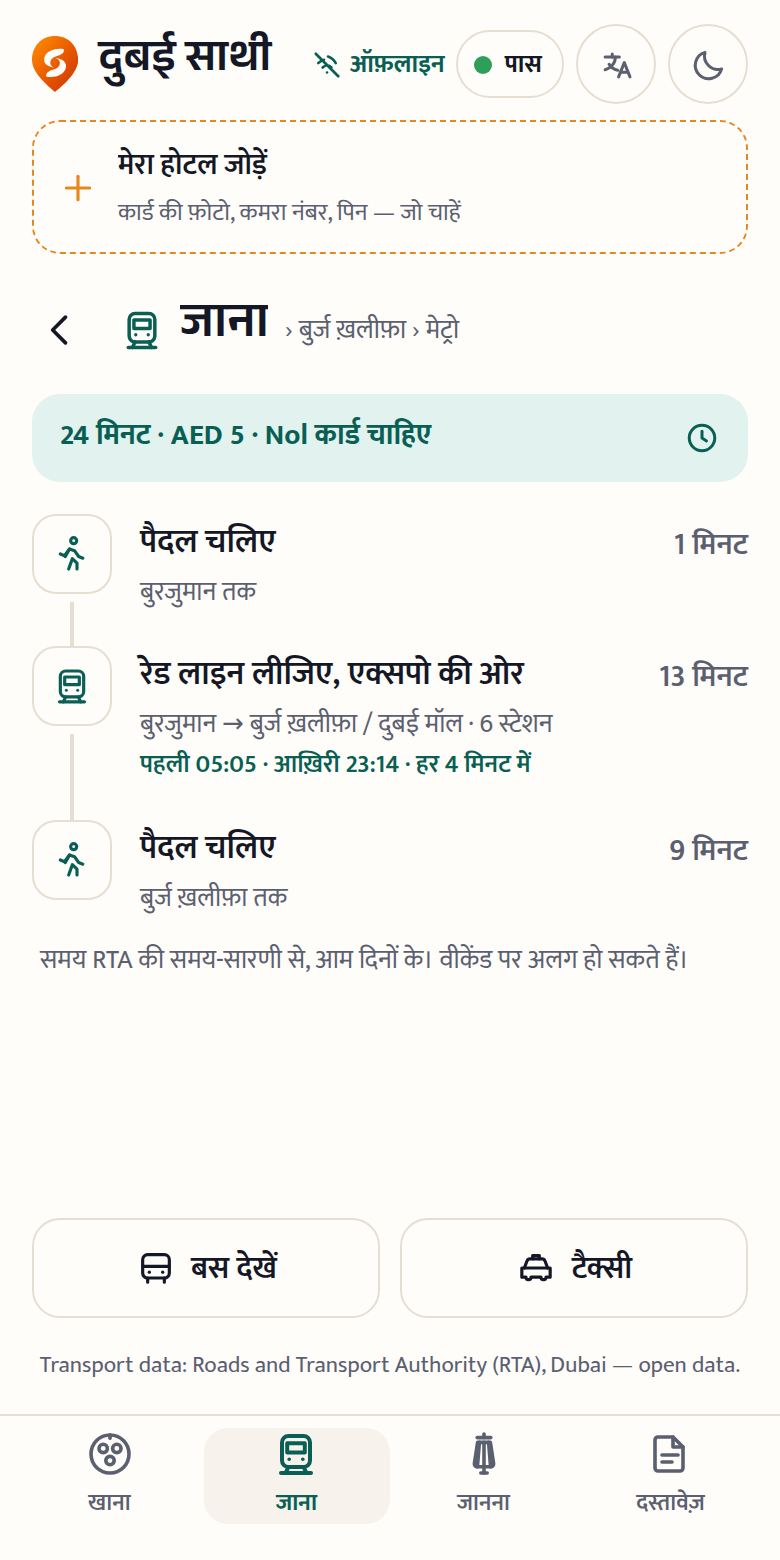
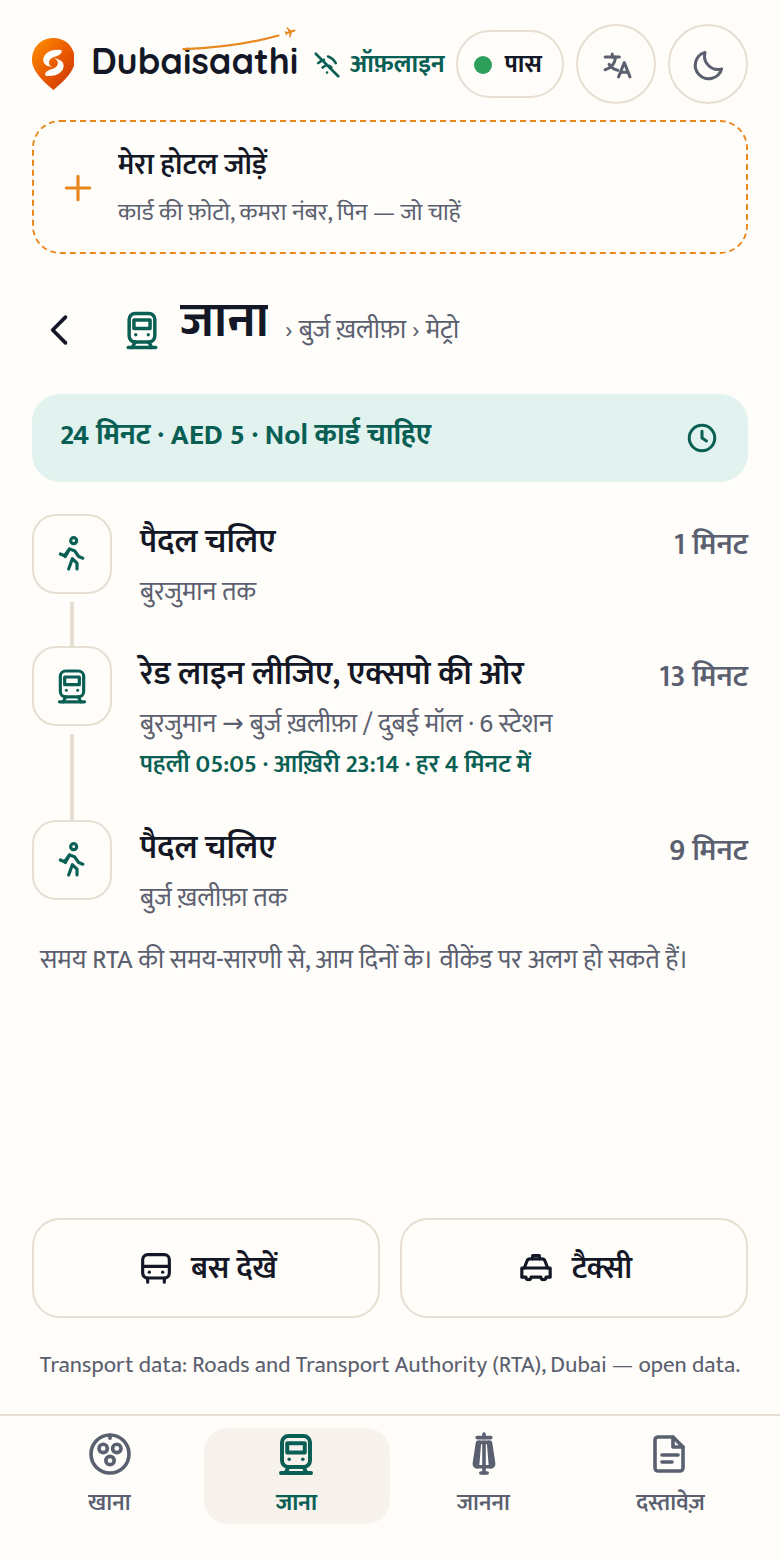
The lockup fits the strip, and the website's seven screenshots are retaken
`Dubaisaathi` is a wider word than दुबई साथी was, and the strip also carries the
network, the pass, the language and the theme. On a 390px phone the first build put
the whole lockup on the screen with the pin compressed to a third of a pixel: the mark
was the flex item that gave, because nothing said it must not. It now never shrinks,
the word is 18px rather than 22, and the pin is 26 — measured, not guessed: the brand
occupies 133 of the 137 pixels the row can spare it.

All seven of the website's phone pictures are retaken against this build, at 390×780
with the radio off, so the site shows the app as it is rather than as it was this
morning. Every one of them says ऑफ़लाइन in the strip.

Claude-Session: https://claude.ai/code/session_01Lp4LRNLPcADgQ1FbX4AiZC

Changed region(s): [[0.0615, 0.0, 0.4, 0.0615]]

diff --git a/apps/pwa/src/styles.css b/apps/pwa/src/styles.css
@@ -162,13 +162,21 @@ button:not(:disabled) {
 .strip-brand {
   display: flex;
   align-items: center;
-  gap: 10px;
+  gap: 8px;
   flex: 1;
   min-width: 0;
   min-height: 40px;
 }
+/* The pin is never squashed. It is a flex item next to a wider word than the strip used to
+   carry, and without this it is the thing that gives: on a 390px phone the lockup arrived with
+   the mark compressed to a third of a pixel and only the word left. */
+.strip-brand > svg {
+  flex-shrink: 0;
+}
+/* 18px, not the 22px the Devanagari name had: `Dubaisaathi` is 5.76em wide in this face, and
+   the strip also holds the network, the pass, the language and the theme. */
 .strip-name {
-  font-size: 22px;
+  font-size: 18px;
   font-weight: 700;
   line-height: 1;
   color: var(--ink);

diff --git a/apps/pwa/src/app/shell/TopStrip.tsx b/apps/pwa/src/app/shell/TopStrip.tsx
@@ -41,7 +41,7 @@ export function TopStrip({
           }}
           aria-label={t('strip.home')}
         >
-          <Logo size={28} />
+          <Logo size={26} />
           <span className="strip-name">
             <Wordmark name={t('app.name')} />
           </span>
